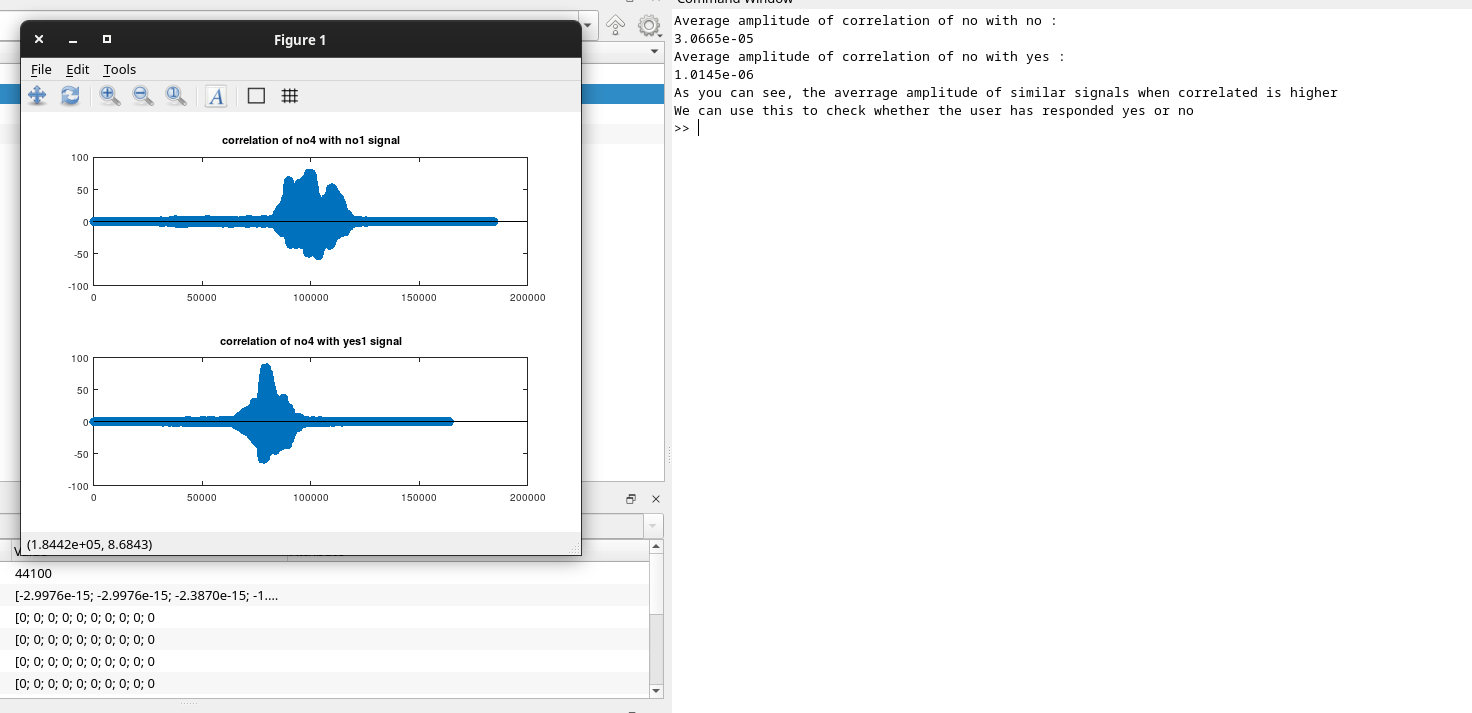
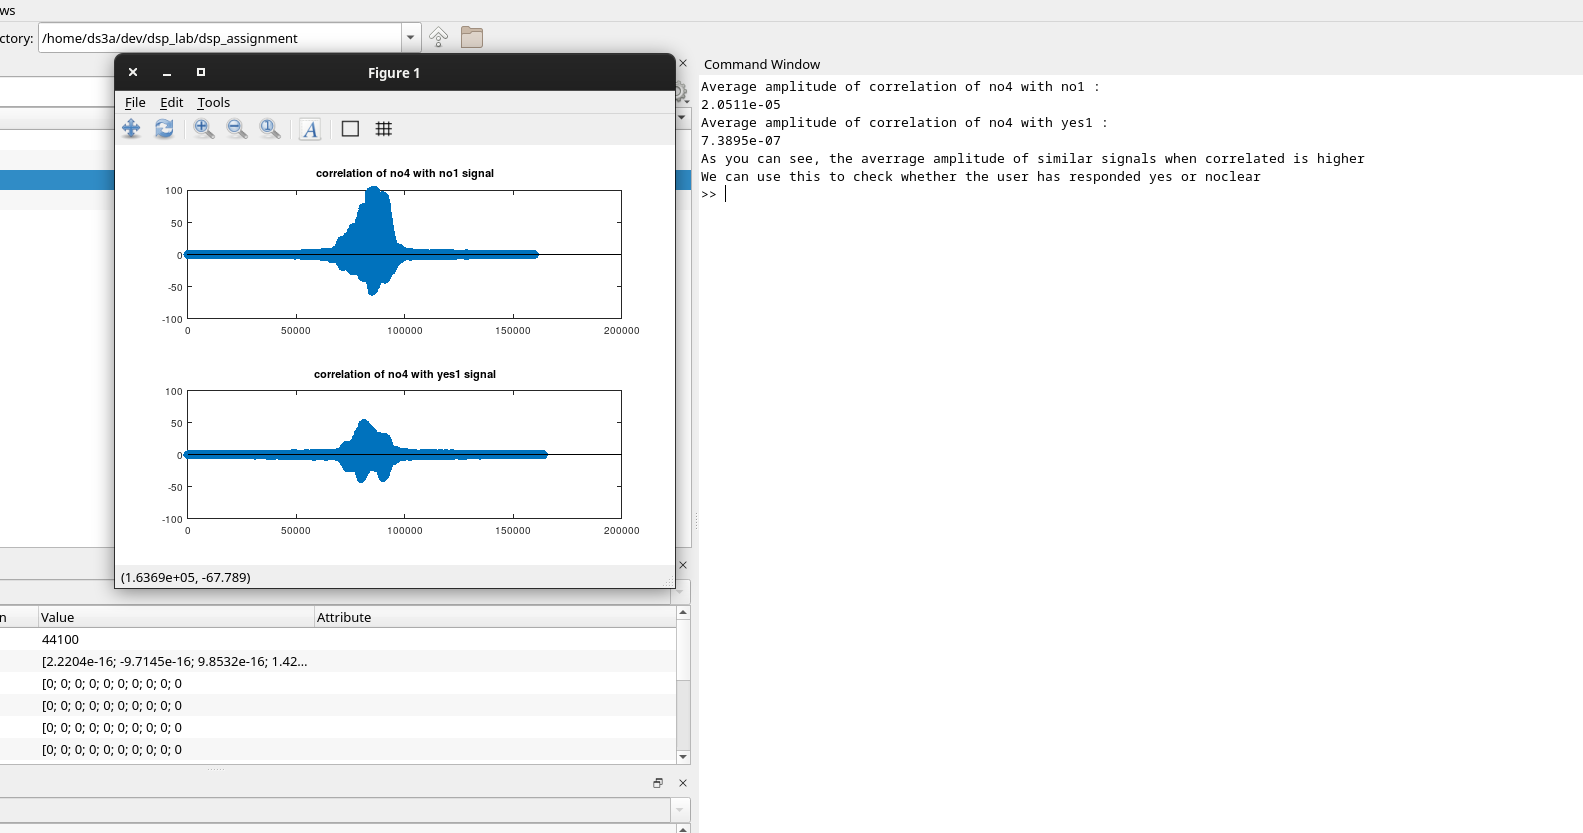
gotta improve

diff --git a/main.m b/main.m
@@ -28,26 +28,63 @@ no4 = remove_noise(no4);
 no5 = remove_noise(no5);
 
 
-no = xcorr(no1, no2);
-yes = xcorr(no1, yes1);
+no = xcorr(no4, no1);
+yes = xcorr(no4, yes1);
 
 subplot(2, 1, 1);
 stem(no);
-ylim([-100 100])
+ylim([0 1000])
 title('correlation of no4 with no1 signal');
 
 
 subplot(2, 1, 2)
 stem(yes);
-ylim([-100 100])
+ylim([0 1000])
 title('correlation of no4 with yes1 signal')
 
 
-disp("Average amplitude of correlation of no with no : ")
+disp("Average amplitude of correlation of no4 with no1 : ")
 disp(abs(mean(no)));
 
-disp("Average amplitude of correlation of no with yes : ")
+disp("Average amplitude of correlation of no4 with yes1 : ")
 disp(abs(mean(yes)));
 
-disp("As you can see, the averrage amplitude of similar signals when correlated is higher");
-disp("We can use this to check whether the user has responded yes or no");
+disp("\n\nAverage amplitude of correlation of no4 with no2 : ")
+disp(abs(mean(xcorr(no4, no2))));
+
+disp("Average amplitude of correlation of no4 with yes2 : ")
+disp(abs(mean(xcorr(no4, yes2))));
+
+
+disp("\n\nAverage amplitude of correlation of no4 with no3 : ")
+disp(abs(mean(xcorr(no4, no3))));
+
+disp("Average amplitude of correlation of no4 with yes3 : ")
+disp(abs(mean(xcorr(no4, yes3))));
+
+
+
+
+
+
+disp("\n\n\n\nAverage amplitude of correlation of yes4 with no1 : ")
+disp(abs(mean(xcorr(yes2, no1))));
+
+disp("Average amplitude of correlation of yes4 with yes1 : ")
+disp(abs(mean(xcorr(yes2, yes1))));
+
+disp("\n\nAverage amplitude of correlation of yes4 with no2 : ")
+disp(abs(mean(xcorr(yes2, no2))));
+
+disp("Average amplitude of correlation of yes4 with yes2 : ")
+disp(abs(mean(xcorr(yes2, yes2))));
+
+
+disp("\n\nAverage amplitude of correlation of yes4 with no3 : ")
+disp(abs(mean(xcorr(yes2, no3))));
+
+disp("Average amplitude of correlation of yes4 with yes3 : ")
+disp(abs(mean(xcorr(yes2, yes3))));
+
+%disp("As you can see, the averrage amplitude of similar signals when correlated is higher");
+%disp("We can use this to check whether the user has responded yes or no");

diff --git a/remove_noise.m b/remove_noise.m
@@ -1,5 +1,5 @@
  function clear_audio = remove_noise(noisy_audio)
   
-  clear_audio = noisy_audio;
+  clear_audio = abs(noisy_audio);
 %  disp(noisy_audio);
 end
